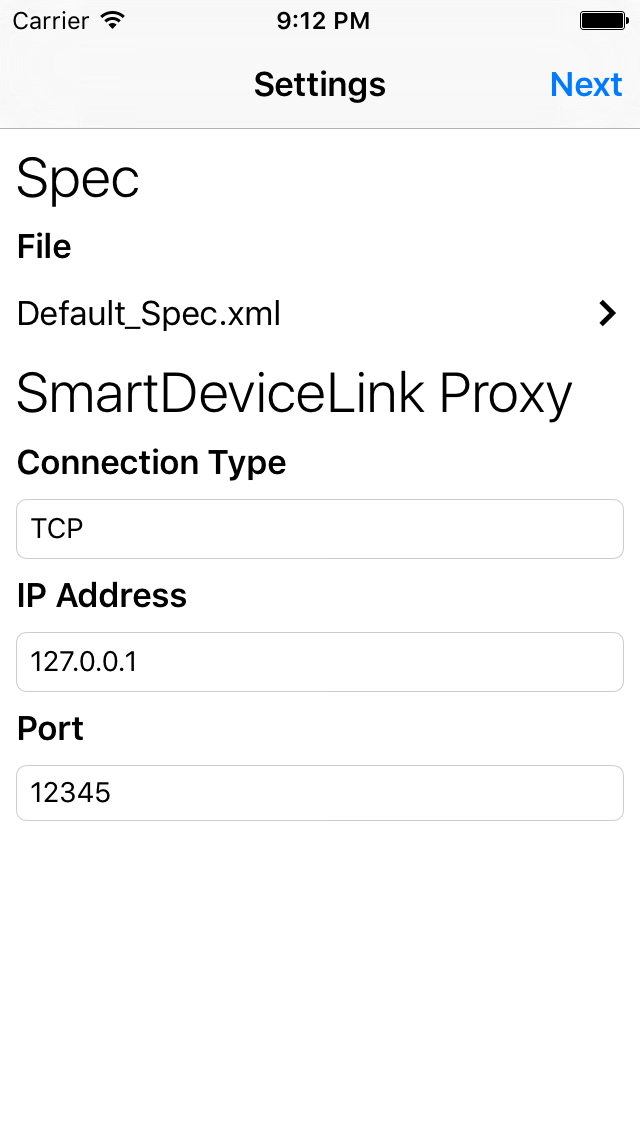
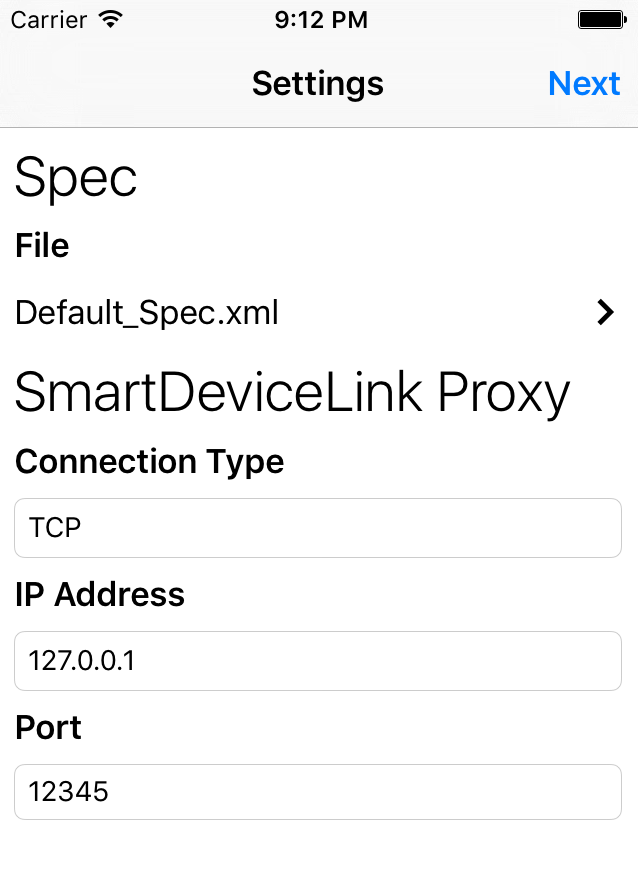
Fixed small formatting issues

diff --git a/docs/RPC Builder/index.md b/docs/RPC Builder/index.md
@@ -20,22 +20,20 @@ After the SDL iOS library has been installed, the RPC Builder app can be deploye
 
 ### Settings Page
 <img src="assets/Settings.png" width=200px>
-
 On the settings page, select a RPC spec file. The default *Mobile_API.xml* file will generate all possible RPCs available for the app. To use a custom RPC spec file, add a new file via iTunes file sharing to the `SpecXMLs` directory. The file can also be added via a remote URL.
 
-Also on the settings page, set the transport layer to TCP/IP or iAP. To use the TCP/IP transport layer, enter an IP address and port number.
-
-<img src="assets/RegisterAppInterface.png" width=200px>
+Also on the settings page, set the transport layer to TCP/IP or iAP.
 
 Once the spec file and transport layer have been set, click on *Next*. The next page is the Register App Interface (RAI) screen. This page contains information for registering the app the first time it connects with the SDL Core. Simply click on *Send* to use the default settings. If the properties on the RAI screen are modified, they will be cached for subsequent launches. 
 
+<img src="assets/RegisterAppInterface.png" width=200px>
 <img src="assets/Connecting.png" width=200px>
 
 !!! IMPORTANT 
 Once *Send* is pressed, the app will not continue until a successful connection is achieved and RAI response is received.
 !!!
 
-### Main RPC Table
+### Main RPCs Table
 
 <img src="assets/RPCs.png" width=200px>
 
@@ -43,7 +41,7 @@ The main RPC table is create at runtime by the app from the spec XML file. If th
 
 <img src="assets/AddCommand.png" width=200px>
 
-### RPC Parameters
+### Send A RPC
 To send an RPC to the SDL Core select the RPC from the table, fill out the RPC parameters and click *Send*.
 
 <img src="assets/RPCs.png" width=200px>
@@ -68,8 +66,8 @@ There are three different ways to send an RPC argument.
     * To send an argument with an empty string, leave the field next to the argument name empty
 3. Don't send the argument
     * To disable the argument from being included in the RPC, tap once on the argument's name. The argument will be grayed out and not included in the request. (See picture below)  
-    <img src="assets/EnabledDisabled.png" width=200px>
-        > mainField1 will not be included in the RPC Request, but mainField2 will be included with an empty string.
+    <img src="assets/EnabledDisabled.png" width=200px>  
+> mainField1 will not be included in the RPC Request, but mainField2 will be included with an empty string.
 
 ### Modules
 The purpose of modules is to allow developers to create more advanced testing scenarios. A module can contain multiple RPCs. It can also define capabilities not provided in the RPC spec file.
@@ -101,7 +99,7 @@ There are a few requirements for building Modules:
 }
 ```
 
-#### Modules in the Default Spec XML File:
+#### Default Modules
 1. Streaming
     - Allows for testing of video and audio streaming of camera / video files as well as audio files respectively.
 2. Audio Capture
@@ -112,18 +110,18 @@ The console log shows a simple output of received responses or notifications.
 
 <img src="assets/Console.png" width=200px>
 
-#### Console Color Coding
-The logs are color coded to quickly identify the types of communication.
-1. **White**: Used for logs with no additional data.
-2.  **Blue**: Used for requests sent to the SDL Core.
-3. **Green**: Used for responses from the SDL Core. There are three possible respose types:
-    - *Successful*: these response types are colored green.
-    - *Aborted, Timed-Out, or Warnings*: these response types are colored yellow.
-    - *Miscellaneous*: these response types are colored red.
-4. **Yellow**: Used for notifications sent from the SDL Core.
+#### Console Color Codes
+The logs are color coded to quickly identify the types of communication.  
+    1. **White**: Used for logs with no additional data.
+    2.  **Blue**: Used for requests sent to the SDL Core.
+    3.  **Green**: Used for responses from the SDL Core. There are three possible respose types:
+        - *Successful*: these response types are colored green.
+        - *Aborted, Timed-Out, or Warnings*: these response types are colored yellow.
+        - *Miscellaneous*: these response types are colored red.
+    4. **Yellow**: Used for notifications sent from the SDL Core.
 
 
-#### RPC Call Console Information
+#### RPC JSON
 Tapping once on a RPC call in the console will reveal the JSON associated with that RPC call, if applicable.
 
 <img src="assets/Console-RAI.png" width=200px>
@@ -135,17 +133,7 @@ Putfile is the RPC responsible for sending binary data from our mobile libraries
 If you need general assistance, or have other questions, you can [sign up](http://slack.smartdevicelink.org/) for the [SDL Slack](https://smartdevicelink.slack.com/) and chat with other developers and the maintainers of the project.
 
 ## Found a Bug?
-If you see a bug, feel free to [post an issue](https://github.com/smartdevicelink/rpc_builder_app_ios/issues/new). Please see the [contribution guidelines](https://github.com/smartdevicelink/rpc_builder_app_ios/blob/master/CONTRIBUTING.md) before proceeding.
+If you see a bug, feel free to [post an issue](https://github.com/smartdevicelink/rpc_builder_app_ios/issues/new).
 
 ## Want to Help?
-If you want to help add more features, please [file a pull request](https://github.com/smartdevicelink/rpc_builder_app_ios/compare). Please see the [contribution guidelines](https://github.com/smartdevicelink/rpc_builder_app_ios/blob/master/CONTRIBUTING.md) before proceeding.
-
-## Contributors
-#### Alex Muller - [Github](https://github.com/asm09fsu)
-Lead Developer and Designer, UI/UX Development, Architecture Design
-
-#### Casey Feldman - [Github](https://github.com/ligerxx) | [Dribbble](https://dribbble.com/ligerxx) | [Web](http://www.caseyfeldman.me)
-Lead Visual Design, UI/UX Development
-
-#### Timur Pulathaneli - [Github](https://github.com/tpulatha)
-Architecture Design, UI/UX Development
+If you want to help add more features, please [file a pull request](https://github.com/smartdevicelink/rpc_builder_app_ios/compare).
